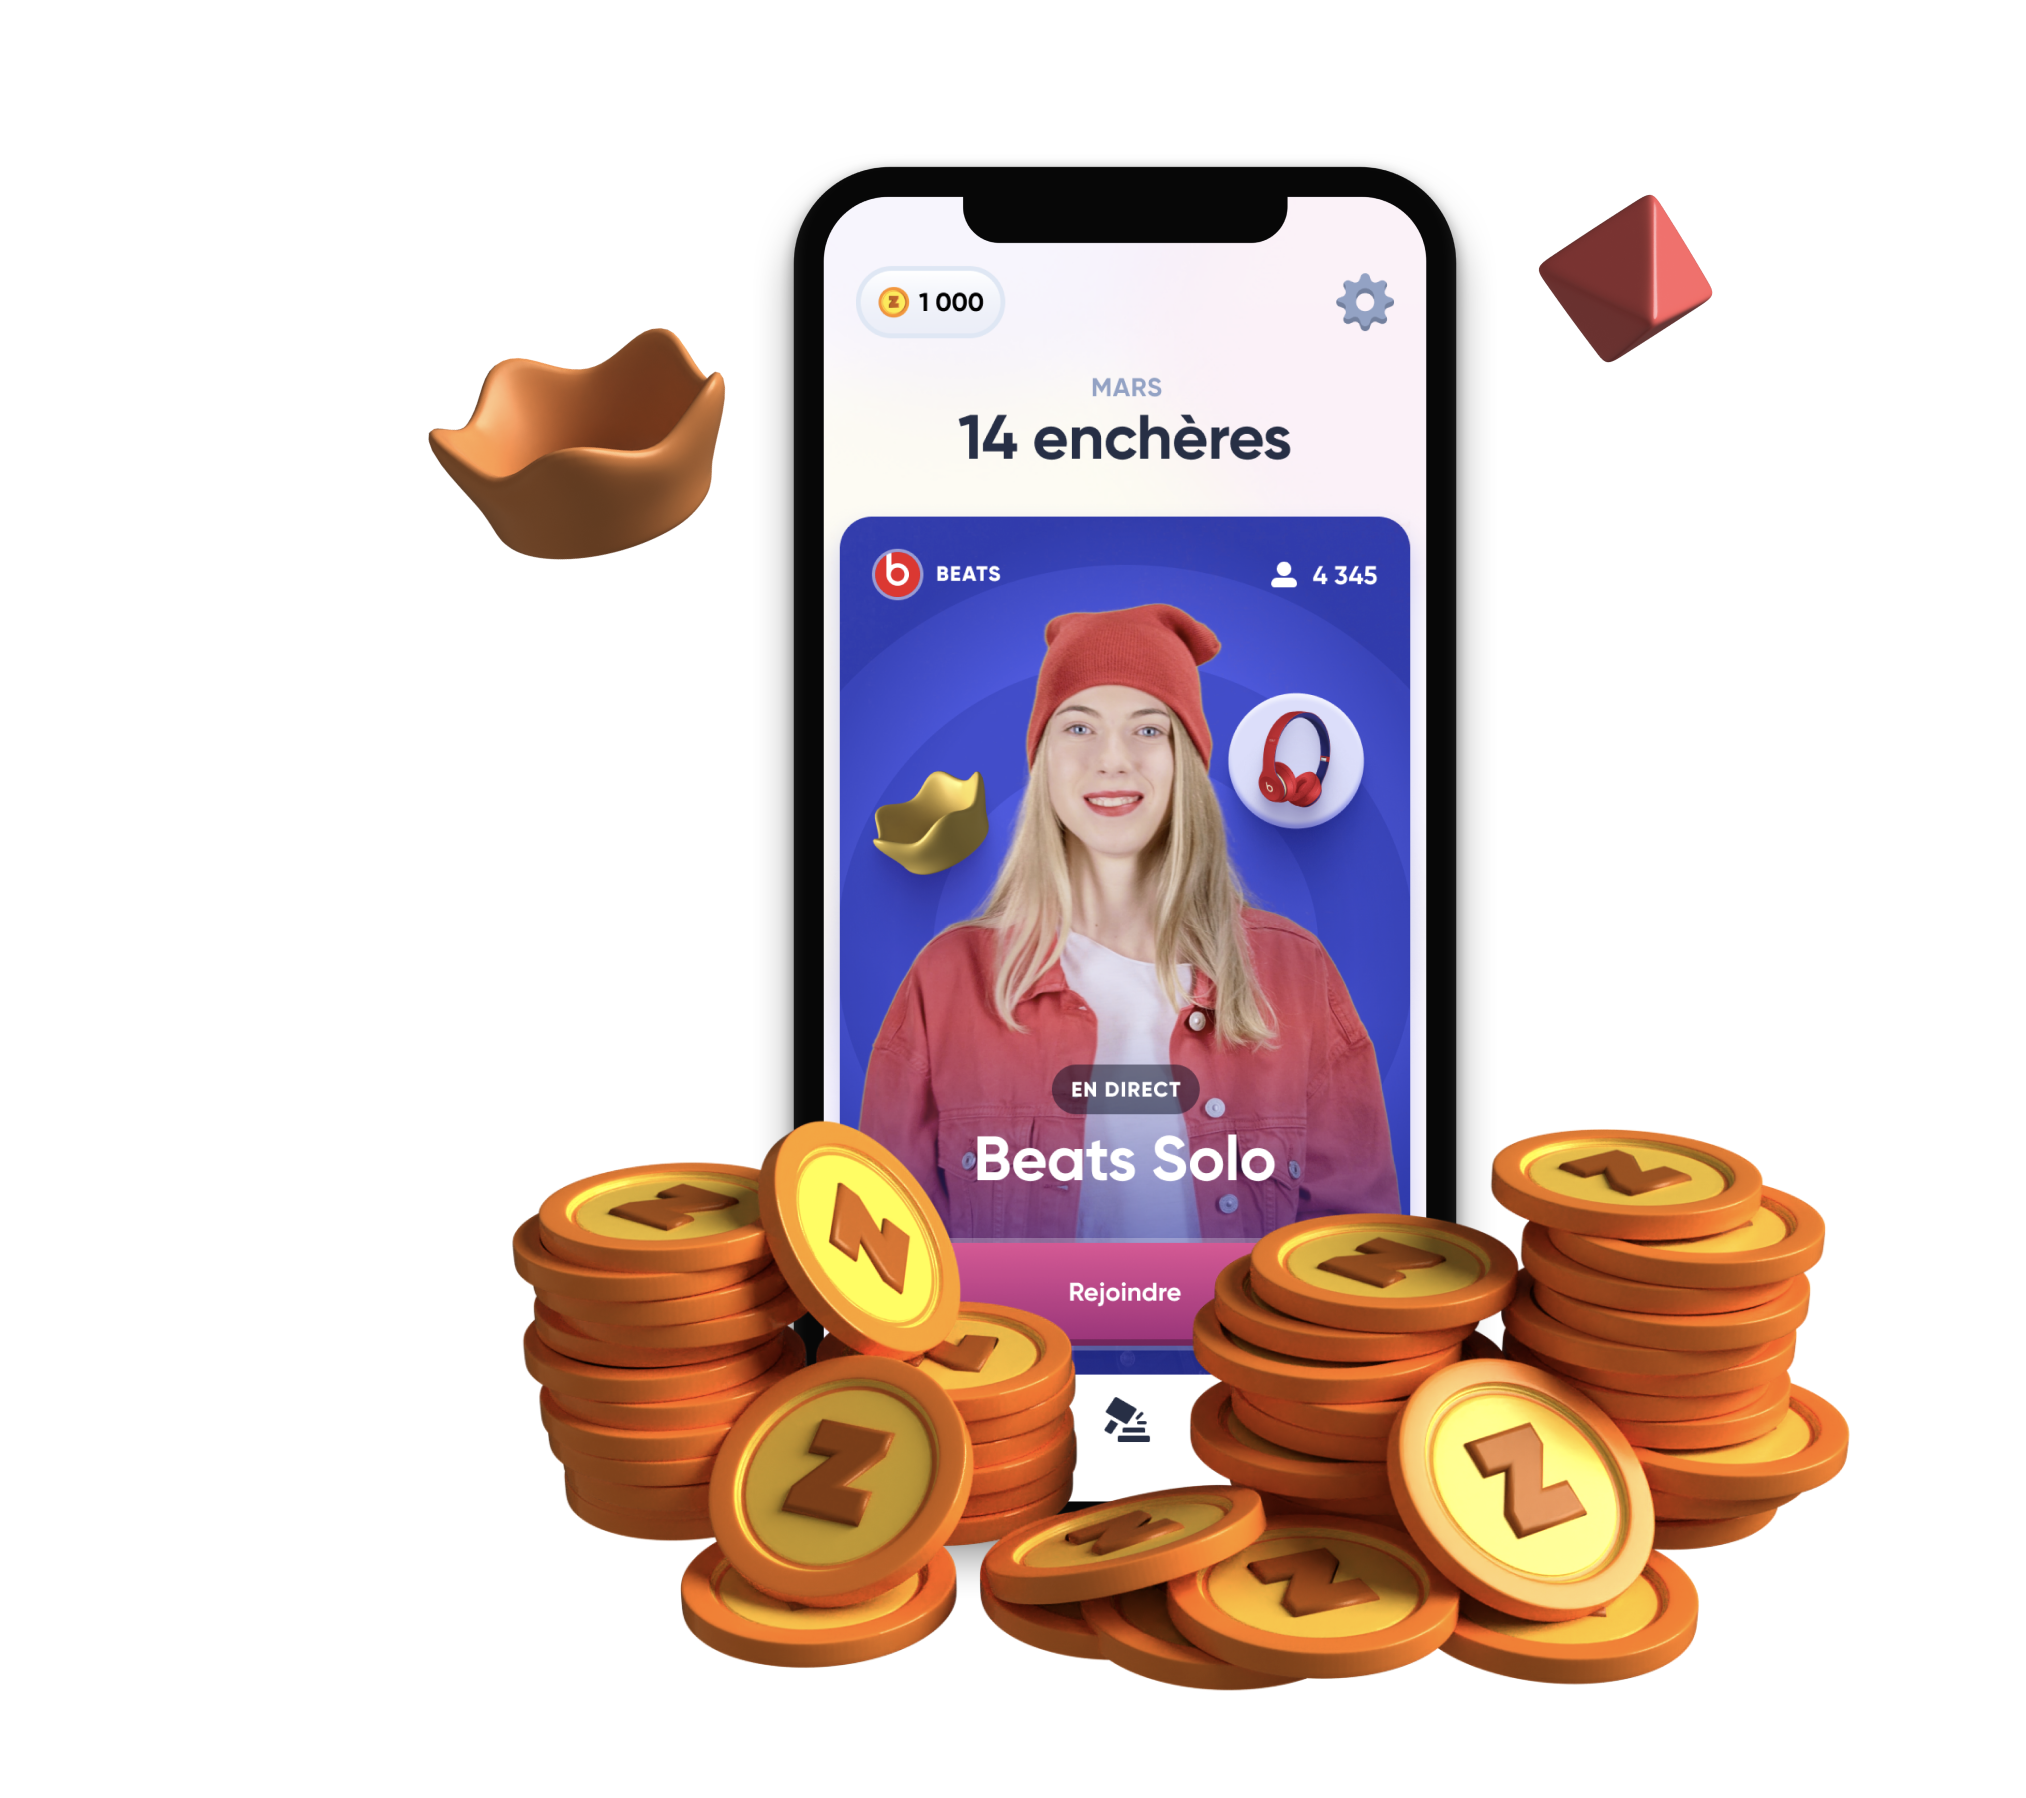
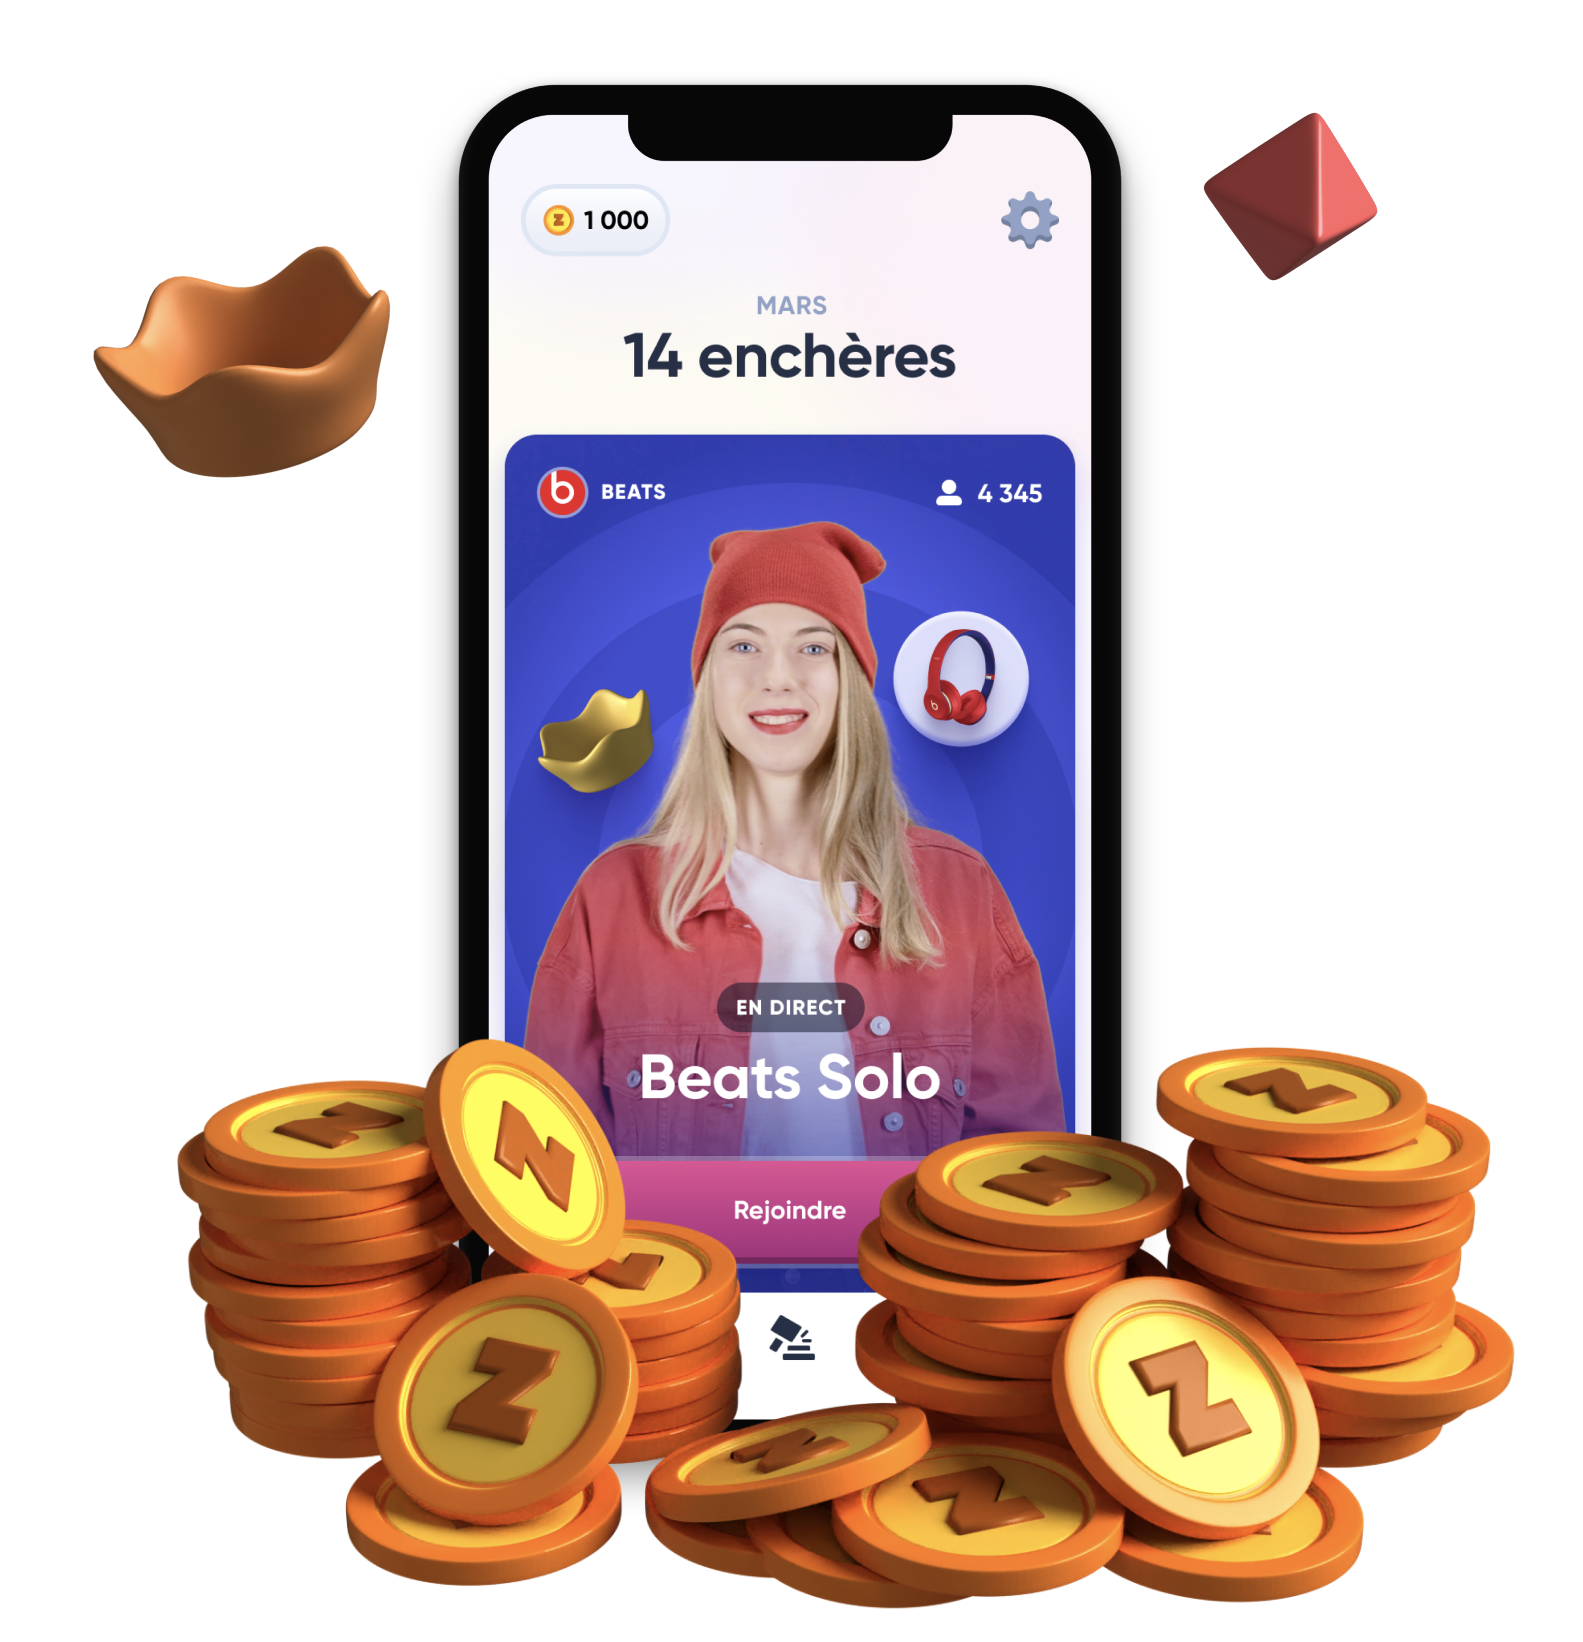
:sparkles: [Hero] Hero complete

diff --git a/src/components/organisms/Hero.js b/src/components/organisms/Hero.js
@@ -23,6 +23,8 @@ const Hero = () => {
     <section className={styles.heroSection}>
       <Layout>
         <Header />
+      </Layout>
+      <Layout>
         <div className={styles.heroWrapper}>
           <div className={styles.informations}>
             <h1>Vos produits préférés à petit prix</h1>
@@ -41,10 +43,12 @@ const Hero = () => {
               <button type="submit">Se préinscrire</button>
             </form>
           </div>
-          <div className={styles.image}>
+
+          <div className={styles.imageContainer}>
             <Img
               fluid={data.file.childImageSharp.fluid}
               alt="Mockup of Bidr app on iPhone with a lot of zbabs"
+              className={styles.image}
             />
           </div>
         </div>

diff --git a/src/components/organisms/hero.module.css b/src/components/organisms/hero.module.css
@@ -39,6 +39,7 @@ form {
   display: flex;
   flex-direction: column;
   align-items: center;
+  margin-bottom: 20px;
 }
 
 @media screen and (min-width: 800px) {
@@ -104,5 +105,18 @@ button {
   button {
     margin-left: -60px;
     width: 250px;
+  }
+}
+
+/* Image */
+.image {
+  width: 140%;
+  margin-left: -20%;
+}
+
+@media screen and (min-width: 800px) {
+  .image {
+    width: 120%;
+    margin-left: 0;
   }
 }

diff --git a/src/styles/global.css b/src/styles/global.css
@@ -1,5 +1,6 @@
 body {
   margin: 0;
+  overflow-x: hidden;
 }
 
 a {
